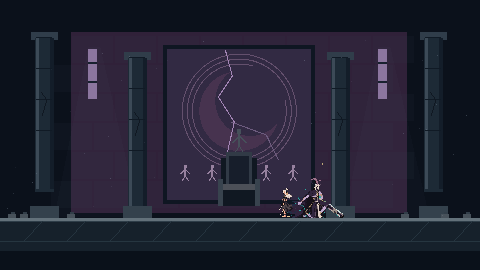
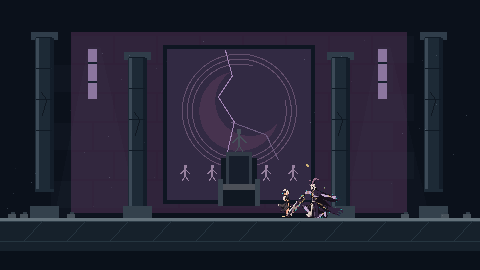
Correct source facing for both character sprite sets

Changed region(s): [[0.5625, 0.6519, 0.7188, 0.8296]]

diff --git a/docs/ANIMATION_STATUS.md b/docs/ANIMATION_STATUS.md
@@ -81,7 +81,7 @@ The genuine idle loop plays on the title screen, during stationary cinematics, a
 
 - Challenger art is reduced by an **integer factor of two** using nearest-neighbor once on first load. Its roughly 59-pixel body becomes about 30 native game pixels. Boss art stays 1:1, about 55 pixels tall. Sprite node scale stays `(1,1)` during combat. The existing ending deliberately grows the Challenger vertically as part of the transformation.
 - Anchors are fixed per sheet, never inferred per frame: Challenger `(32,62)` or `(40,78)` before reduction; boss `(29,57)` for 58-pixel cells and `(32,60)` for 64-pixel cells. This preserves intentional pose movement while keeping standing feet aligned.
-- Both supplied characters face left. Facing right mirrors the sprite and its anchor; physics direction remains independent.
+- Both supplied characters face right. Facing left mirrors the sprite and its anchor; physics direction remains independent.
 - Attack segments are sampled from gameplay `state_time` and the configured startup/active/recovery durations. Increasing phase tempo does not desynchronize attack frames. Fallback poses never change damage, collision, or commitment.
 - **F3** toggles `[ANIM MISSING: STATE]` on both fighters, including while paused. The setting survives retries. Labels default on in debug/editor builds and off in release builds; F3 is inactive in release builds.
 - For new art, add or update an `animations` entry with the actual `file`, `cell`, `count`, `anchor`, `fps`, `loop`, and optional frame `indices`/phase `segments`. Remove a color key for true-alpha exports. No frame count is assumed by gameplay scripts.
